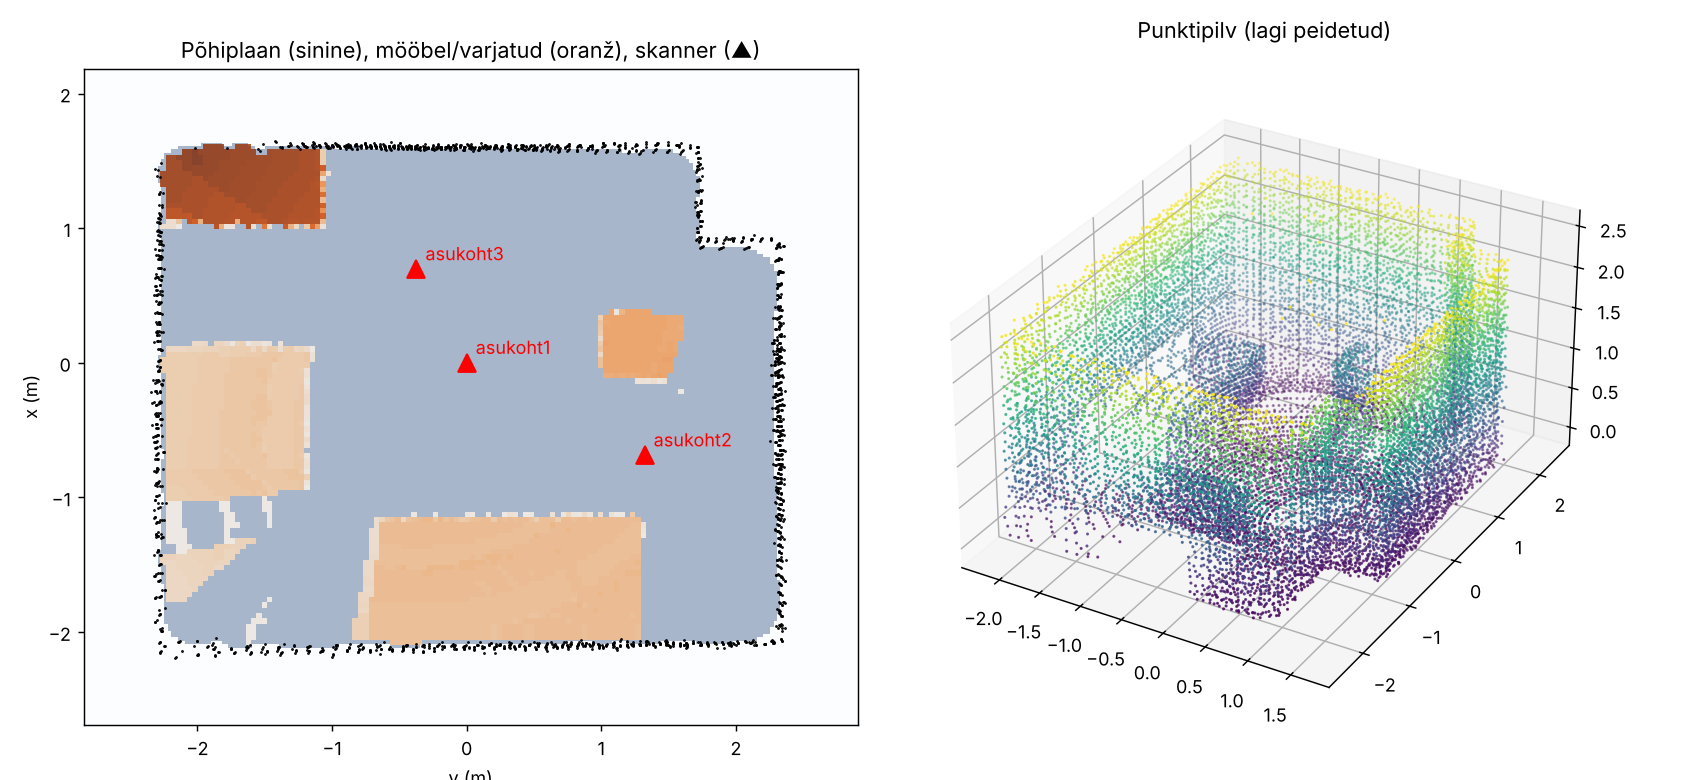
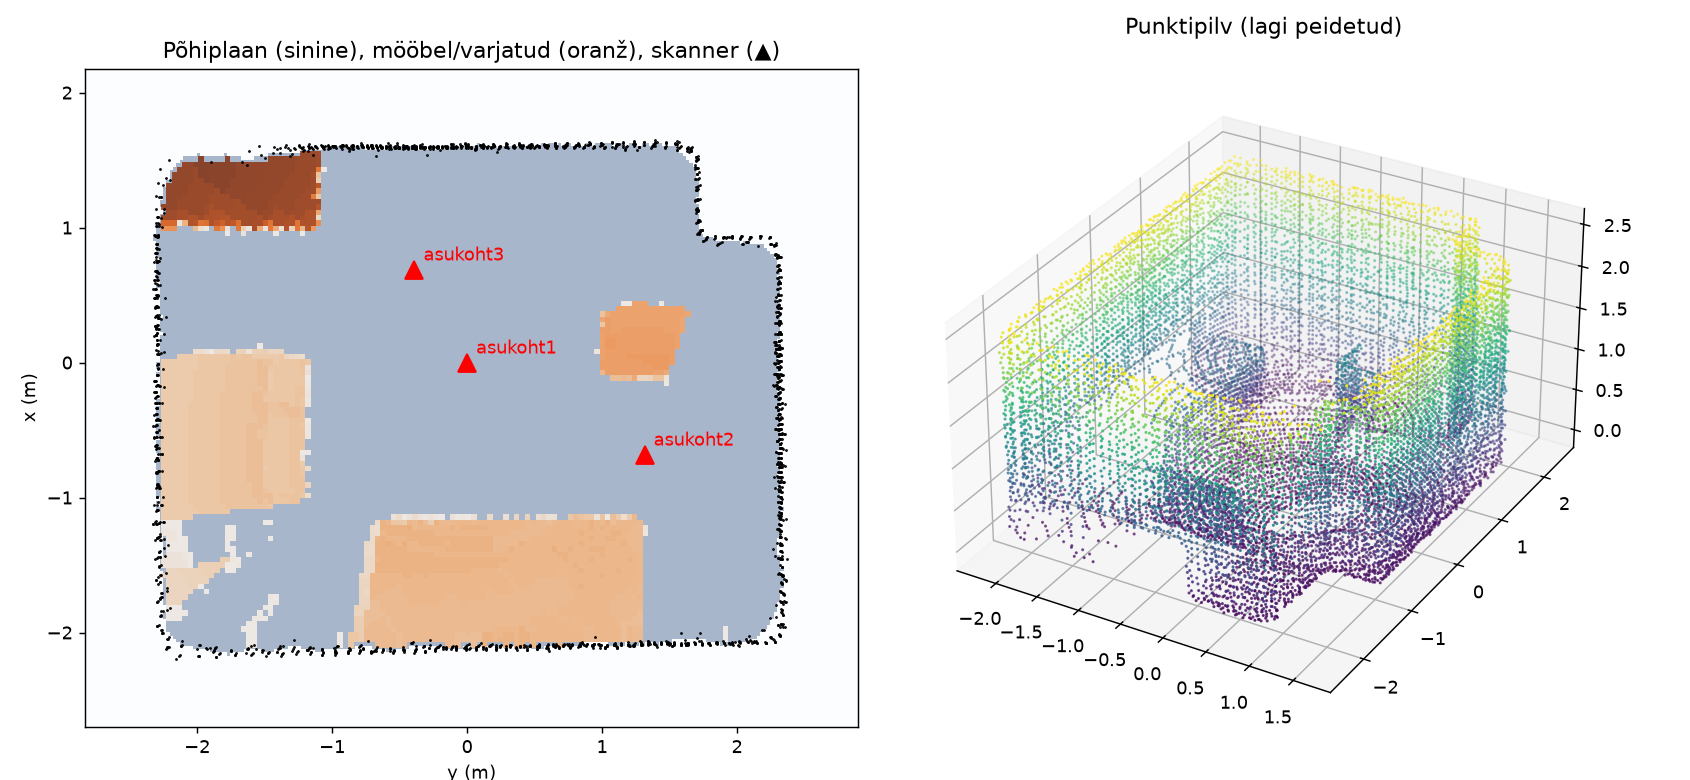
Make results robust to sensor noise, servo error and wide beam
The benchmark showed that noise above ~2 cm, a 3 % servo travel error
or the TF-Luna's 2° beam each threw the volume off by 4-15 %. Each fix
below was checked with benchmark.py (3 positions, 5 runs per scenario):

- Smooth ranges with a 3x3 median over neighbouring beams (only where
  the median is within 20 cm, so edges stay put), and let the floor
  plan reach the wall pixel centres.
  Noise 2 cm + 1 %: -15.4 % -> -2.5 %.
- kalibreeri is now automatic: it sweeps both servos across a flat wall
  and fits r = d / cos(s * (angle - c)) to get the level angle and each
  servo's scale (--pan-skaala, --tilt-skaala). The benchmark calibrates
  on a simulated wall first, like a real user would.
  Servo 3 % off: -14.1 % -> -1.4 %.
- Drop flying points (a beam half on an edge averages the near and far
  surface) by removing points whose surface is seen at > 75° from
  head-on.
  Beam 2°: -4.3 % -> -1.7 %, furniture 3.19 -> 4.06 m³ (true 4.03).

All errors combined: -36 % -> -4.0 %, with no registration warnings.
README, the firmware comment and the examp/ result are updated to match.

diff --git a/src/hardware/scanner.py b/src/hardware/scanner.py
@@ -5,6 +5,9 @@ import os
 import sys
 import time
 
+import numpy as np
+from scipy.optimize import least_squares
+
 
 # ======================================================================
 # 6. Hardware: scanning and calibration
@@ -65,20 +68,58 @@ def cmd_scan(args, cfg):
           args.kaust)
 
 
-def cmd_calibrate(args, cfg):
-    ser = open_port(args.port)
-    print("Kalibreerimine: sisesta tilt-nurk (nt 60). Suuna LiDAR seinale ja otsi nurk,")
-    print("mille juures kaugus on VÄIKSEIM: siis vaatab LiDAR seina suhtes risti (loodis).")
-    print("Tühi rida lõpetab.")
-    while True:
-        s = input("tilt> ").strip()
-        if not s:
-            break
-        ser.write(f"TILT {int(s)}\n".encode())
-        ser.readline()
+def fit_wall_sweep(angles, ranges_m):
+    """Sweep across a flat wall: fits r = d / cos(s·(angle − c)) and returns (c, s, d).
+    c = commanded angle pointing straight at the wall, s = real degrees per commanded degree."""
+    a, r = np.asarray(angles, float), np.asarray(ranges_m, float)
+
+    def resid(p):
+        return p[2] / np.cos(np.radians(p[1] * (a - p[0]))) - r
+
+    i = np.argmin(r)
+    c, s, d = least_squares(resid, [a[i], 1.0, r[i]], loss="soft_l1", f_scale=0.03).x
+    return c, abs(s), d
+
+
+def calibration(pan_angles, pan_ranges, tilt_angles, tilt_ranges, lidar_offset):
+    """Wall sweeps -> tilt_horizon, pan_scale, tilt_scale. Ranges in m, as the LiDAR reports them."""
+    _, pan_scale, _ = fit_wall_sweep(pan_angles, np.asarray(pan_ranges) + lidar_offset)
+    horizon, tilt_scale, _ = fit_wall_sweep(tilt_angles, np.asarray(tilt_ranges) + lidar_offset)
+    return dict(tilt_horizon=horizon, pan_scale=pan_scale, tilt_scale=tilt_scale)
+
+
+def _sweep(ser, axis, angles):
+    out = []
+    for a in angles:
+        ser.write(f"{axis} {a}\n".encode())
+        ser.readline()  # OK comes after the servo has settled
         ser.write(b"READ\n")
         line = ser.readline().decode(errors="replace").strip()
-        if line.startswith("R,"):
-            _, d, a = line.split(",")
-            print(f"  kaugus {d} cm, tugevus {a}")
+        if line.startswith("R,") and int(line.split(",")[1]) > 20:  # 0 = no valid reading
+            out.append((a, int(line.split(",")[1]) / 100))
+    return np.array(out).T
+
+
+def cmd_calibrate(args, cfg):
+    ser = open_port(args.port)
+    print("Kalibreerimine. Pane skanner loodis umbes 1 m kaugusele tasasest seinast (vähemalt 2,5 m lai,")
+    print("ees ei tohi olla mööblit) nii, et LiDAR vaatab seina poole. Kestab umbes poole minuti.")
+    input("Vajuta Enter...")
+    h = round(cfg["tilt_horizon"])
+    ser.write(f"TILT {h}\nPAN 45\n".encode())
+    ser.readline(), ser.readline()
+    pan = _sweep(ser, "PAN", range(45, 136))
+    ser.write(b"PAN 90\n")
+    ser.readline()
+    tilt = _sweep(ser, "TILT", range(max(h - 45, 0), min(h + 45, 180) + 1))
     ser.write(b"HOME\n")
+    if pan.size == 0 or tilt.size == 0 or min(pan.shape[1], tilt.shape[1]) < 40:
+        sys.exit("Liiga vähe mõõtmisi: kas LiDAR vaatab seina poole ja sein on lähemal kui 8 m?")
+    cal = calibration(*pan, *tilt, cfg["lidar_offset"])
+    print(f"Loodinurk {cal['tilt_horizon']:.1f}°, pan-skaala {cal['pan_scale']:.3f}, "
+          f"tilt-skaala {cal['tilt_scale']:.3f}")
+    if max(abs(cal["pan_scale"] - 1), abs(cal["tilt_scale"] - 1)) > 0.15:
+        print("HOIATUS: skaala erineb 1-st üle 15 %. Kas sein on tasane ja vaba? Korda mõõtmist.")
+    print("Kasuta neid arvutamisel, nt:\n  python ruumala.py "
+          f"--tilt-horizon {cal['tilt_horizon']:.1f} --pan-skaala {cal['pan_scale']:.3f} "
+          f"--tilt-skaala {cal['tilt_scale']:.3f} arvuta skaneeringud")

diff --git a/src/processing/geometry.py b/src/processing/geometry.py
@@ -2,6 +2,7 @@
 
 import math
 import os
+import warnings
 
 import numpy as np
 from scipy import ndimage
@@ -45,15 +46,54 @@ class Scan:
         return apply(self.T, self.origin_local[None])[0]
 
 
+def smooth_ranges(pan, tilt, r, max_jump=0.2):
+    """3×3 median over the scan grid (neighbouring beams usually hit the same surface).
+    Cuts range noise ~2×. A point only takes the median if it is within max_jump of it,
+    so object edges stay where they are. NaN = no measurement."""
+    _, i = np.unique(pan, return_inverse=True)
+    _, j = np.unique(tilt, return_inverse=True)
+    g = np.full((i.max() + 3, j.max() + 3), np.nan)
+    g[i + 1, j + 1] = r
+    with warnings.catch_warnings():  # windows with no valid measurement
+        warnings.simplefilter("ignore", RuntimeWarning)
+        med = np.nanmedian(np.lib.stride_tricks.sliding_window_view(g, (3, 3)), axis=(2, 3))[i, j]
+    return np.where(np.abs(med - r) < max_jump, med, r)
+
+
+def veil_points(pan, tilt, P, d, max_incidence=75.0):
+    """Flying points: a ~2° wide beam that half-hits an edge returns an average of the near and
+    the far surface, i.e. a point floating in between. Together they form a "veil" that runs along
+    the beams, so they look like a surface seen almost edge-on. Surface direction comes from the
+    nearer grid neighbour on each axis, so real edge points (one close neighbour) are kept.
+    ponytail: also drops floor/ceiling seen at < 15° (≈ 5 m away), other positions cover those."""
+    _, i = np.unique(pan, return_inverse=True)
+    _, j = np.unique(tilt, return_inverse=True)
+    G = np.full((i.max() + 3, j.max() + 3, 3), np.nan)
+    G[i + 1, j + 1] = P
+
+    def tangent(fwd, back):
+        f, b = fwd - P, P - back
+        nf = np.nan_to_num(np.linalg.norm(f, axis=1), nan=np.inf)
+        nb = np.nan_to_num(np.linalg.norm(b, axis=1), nan=np.inf)
+        return np.where((nf <= nb)[:, None], f, b)
+
+    n = np.cross(tangent(G[i + 2, j + 1], G[i, j + 1]), tangent(G[i + 1, j + 2], G[i + 1, j]))
+    with np.errstate(invalid="ignore", divide="ignore"):
+        cos_inc = np.abs(np.sum(n * d, axis=1)) / np.linalg.norm(n, axis=1)
+    return cos_inc < math.cos(math.radians(max_incidence))  # NaN (no neighbours) -> kept
+
+
 def raw_to_points(pan, tilt, dist_cm, amp, cfg):
     r = dist_cm / 100.0
     ok = (r >= cfg["min_range"]) & (r <= cfg["max_range"]) & (amp >= cfg["min_amp"])
-    th = np.radians(pan[ok])
-    ph = np.radians((tilt[ok] - cfg["tilt_horizon"]) * cfg["tilt_dir"])
-    rr = r[ok] + cfg["lidar_offset"]
+    r = smooth_ranges(pan, tilt, np.where(ok, r, np.nan)) + cfg["lidar_offset"]
+    th = np.radians(90 + (pan - 90) * cfg["pan_scale"])
+    ph = np.radians((tilt - cfg["tilt_horizon"]) * cfg["tilt_dir"] * cfg["tilt_scale"])
     d = np.stack([np.cos(ph) * np.cos(th), np.cos(ph) * np.sin(th), np.sin(ph)], axis=1)
     axis = np.array([0, 0, cfg["axis_height"]])
-    return axis + rr[:, None] * d, axis
+    P = axis + r[:, None] * d  # NaN where there is no measurement
+    ok &= ~veil_points(pan, tilt, P, d)
+    return P[ok], axis
 
 
 def load_scan_csv(path, cfg):

diff --git a/src/ruumala.py b/src/ruumala.py
@@ -48,6 +48,8 @@ from simulation.simulator import cmd_simulate
 DEFAULTS = dict(
     tilt_horizon=60.0,   # tilt servo angle at which the LiDAR is level
     tilt_dir=1.0,        # +1: larger tilt angle = beam points up, -1 the opposite
+    pan_scale=1.0,       # real degrees per commanded degree (servos are rarely exact); `kalibreeri` measures
+    tilt_scale=1.0,      # these two and tilt_horizon
     axis_height=0.06,    # height of the tilt axis above the pan axis (m)
     lidar_offset=0.02,   # distance from the tilt axis to the LiDAR front face (m)
     min_range=0.20,      # closest reliable TF-Luna distance (m)
@@ -67,6 +69,10 @@ def main():
                    help="tilt-servo nurk, mille juures LiDAR on loodis")
     p.add_argument("--tilt-dir", type=float, default=DEFAULTS["tilt_dir"],
                    help="+1 või -1, kui tilt pöörab vastupidi")
+    p.add_argument("--pan-skaala", type=float, default=DEFAULTS["pan_scale"],
+                   help="pan-servo tegelik pööre käsitud kraadi kohta (kalibreeri annab selle)")
+    p.add_argument("--tilt-skaala", type=float, default=DEFAULTS["tilt_scale"],
+                   help="tilt-servo tegelik pööre käsitud kraadi kohta (kalibreeri annab selle)")
     p.add_argument("--samm", type=int, default=2, help="skaneerimise samm kraadides")
     sub = p.add_subparsers(dest="cmd", required=True)
 
@@ -75,7 +81,7 @@ def main():
     s.add_argument("--nimi", required=True, help="nt asukoht1")
     s.add_argument("--kaust", default="skaneeringud")
 
-    c = sub.add_parser("kalibreeri", help="leia tilt-servo loodinurk")
+    c = sub.add_parser("kalibreeri", help="mõõda tasase seina abil loodinurk ja servode skaala")
     c.add_argument("--port", required=True)
 
     a = sub.add_parser("arvuta", help="ühenda skaneeringud ja arvuta ruumala")
@@ -91,6 +97,8 @@ def main():
     cfg = dict(DEFAULTS)
     cfg["tilt_horizon"] = args.tilt_horizon
     cfg["tilt_dir"] = args.tilt_dir
+    cfg["pan_scale"] = args.pan_skaala
+    cfg["tilt_scale"] = args.tilt_skaala
     cfg["pan_step"] = cfg["tilt_step"] = args.samm
 
     if args.cmd == "skanni":

diff --git a/src/simulation/simulator.py b/src/simulation/simulator.py
@@ -115,6 +115,29 @@ def simulate(folder, cfg, n_positions=3, seed=1, errors=None):
     return sim_truth(room)
 
 
+def simulate_wall_sweeps(cfg, seed=1, errors=None, dist=1.0):
+    """What `kalibreeri` would measure in front of a flat wall, with the same servo/LiDAR errors.
+    Returns (pan angles, ranges m, tilt angles, ranges m)."""
+    e = {**SIM_ERRORS, **(errors or {})}
+    rng = np.random.default_rng(seed + 1000)
+    az0 = rng.normal(0, 5)  # the user never points it at the wall exactly
+
+    def real(cmd):  # where the servo really points; sweeps go one way, so backlash is a fixed lag
+        a = 90 + (np.asarray(cmd, float) - 90) * (1 + e["scale"]) - e["backlash"] / 2
+        return a + rng.normal(0, e["jitter"], a.shape) if e["jitter"] else a
+
+    def measure(az, el):  # flat wall `dist` away from the axes, straight ahead at az = 0
+        t = dist / (np.cos(np.radians(az)) * np.cos(np.radians(el))) - cfg["lidar_offset"]
+        return t + rng.normal(0, e["noise"] + e["noise_rel"] * t)
+
+    h = round(cfg["tilt_horizon"])
+    level = (real(h) - cfg["tilt_horizon"]) * cfg["tilt_dir"]
+    pan = np.arange(45, 136)
+    tilt = np.arange(max(h - 45, 0), min(h + 45, 180) + 1)
+    return (pan, measure(real(pan) - 90 - az0, level),
+            tilt, measure(real(90) - 90 - az0, (real(tilt) - cfg["tilt_horizon"]) * cfg["tilt_dir"]))
+
+
 def cmd_simulate(args, cfg):
     tr = simulate(args.kaust, cfg, args.asukohti, args.seed)
     print(f"Simuleeritud tuba: pindala {tr['area']:.2f} m², ruumala {tr['room']:.2f} m³, "

diff --git a/src/benchmark.py b/src/benchmark.py
@@ -19,9 +19,10 @@ from multiprocessing import Pool
 
 import numpy as np
 
+from hardware.scanner import calibration
 from processing.analysis import analyze
 from ruumala import DEFAULTS
-from simulation.simulator import simulate
+from simulation.simulator import simulate, simulate_wall_sweeps
 
 ALL_ERRORS = dict(noise=0.02, noise_rel=0.01, backlash=1.0, jitter=0.5, scale=0.03, beam=2.0)
 SCENARIOS = {
@@ -37,9 +38,12 @@ SCENARIOS = {
 
 def run(job):
     name, errors, seed, n_pos = job
-    cfg = dict(DEFAULTS)
+    true_cfg = dict(DEFAULTS)  # how the simulated scanner is really built
+    # like a real user: calibrate first (with the same errors), then compute with those values
+    sweeps = simulate_wall_sweeps(true_cfg, seed, errors)
+    cfg = {**true_cfg, **calibration(*sweeps, true_cfg["lidar_offset"])}
     with tempfile.TemporaryDirectory() as d, contextlib.redirect_stdout(io.StringIO()) as out:
-        truth = simulate(d, cfg, n_pos, seed, errors)
+        truth = simulate(d, true_cfg, n_pos, seed, errors)
         try:
             res = analyze(d, cfg)
         except Exception as e:  # a crash is a result too

diff --git a/src/processing/analysis.py b/src/processing/analysis.py
@@ -42,7 +42,7 @@ def footprint(P, origins, ceil, res=0.025, band=(0.45, 0.08), close_m=0.25):
         leak = core[0].any() or core[-1].any() or core[:, 0].any() or core[:, -1].any()
         if not leak:
             break
-    inside = ndimage.distance_transform_edt(~core) <= r + 0.5
+    inside = ndimage.distance_transform_edt(~core) <= r + 1  # up to the wall pixel centres
     area = inside.sum() * res * res
     fp = inside
     return dict(area=area, mask=fp, inside=inside, org=org, res=res, leak=leak, wall_xy=xy, close=cm)

diff --git a/README.md b/README.md
@@ -52,9 +52,9 @@ A simulated 4.6 × 3.7 × 2.55 m room with four pieces of furniture, scanned fro
 
 | | Actual | Measured ([`simuleeritud_tulemus.txt`](examp/simuleeritud_tulemus.txt)) |
 |---|---|---|
-| Room volume | 42.33 m³ | 41.76 m³ |
-| Free air | 38.30 m³ | 37.49 m³ |
-| Furniture + hidden | 4.03 m³ | 4.27 m³ |
+| Room volume | 42.33 m³ | 41.93 m³ |
+| Free air | 38.30 m³ | 37.80 m³ |
+| Furniture + hidden | 4.03 m³ | 4.13 m³ |
 
 Technical details are under [How it works (technical)](#how-it-works-technical).
 
@@ -103,7 +103,7 @@ three-dim/
 ### Mechanics
 
 - The pan servo rotates horizontally 0–180°, the tilt servo vertically 0–180°.
-- Mount the LiDAR so that it points straight ahead (level) when the tilt servo is at **60°**. The beam then sweeps from 60° below the horizon, over the top, to 30° behind, which gives the two halves some overlap. If your mounting is different, find the right angle with the `kalibreeri` command and pass it as `--tilt-horizon`.
+- Mount the LiDAR so that it points straight ahead (level) when the tilt servo is at **60°**. The beam then sweeps from 60° below the horizon, over the top, to 30° behind, which gives the two halves some overlap. It doesn't have to be exact: `kalibreeri` measures the real level angle (see Usage).
 - If a larger tilt angle moves the beam down instead of up, use `--tilt-dir -1`.
 
 ## Installation
@@ -121,7 +121,7 @@ python ruumala.py simuleeri
 python ruumala.py arvuta sim_skaneeringud
 python benchmark.py          # accuracy over many simulated scans, with servo/LiDAR errors (~5 min)
 
-# 1) calibrate (once)
+# 1) calibrate (once): scanner level, ~1 m in front of a flat empty wall, LiDAR facing it
 python ruumala.py kalibreeri --port COM3
 
 # 2) scan at each position (halves A and B; rotate the base 180° by hand in between)
@@ -129,9 +129,11 @@ python ruumala.py skanni --port COM3 --nimi asukoht1
 python ruumala.py skanni --port COM3 --nimi asukoht2
 python ruumala.py skanni --port COM3 --nimi asukoht3
 
-# 3) compute
-python ruumala.py arvuta skaneeringud
+# 3) compute, with the three values that kalibreeri printed
+python ruumala.py --tilt-horizon 61.2 --pan-skaala 1.021 --tilt-skaala 0.987 arvuta skaneeringud
 ```
+
+Calibration sweeps both servos across the wall. A flat wall's distance follows `r = d / cos(angle)`, so fitting that curve gives the exact level angle and how many real degrees each servo turns per commanded degree. Cheap servos are often a few % off, and in the simulator an uncalibrated 3 % error alone made the result 9 % too small.
 
 Results are written to the `skaneeringud/` folder:
 - `tulemus.txt`: volumes and the registration log
@@ -151,21 +153,27 @@ On Linux the port is usually `/dev/ttyUSB0`. Scanning one half at 2° steps take
 
 ## How it works (technical)
 
-1. **Points**: `x = r·cos φ·cos θ`, `y = r·cos φ·sin θ`, `z = r·sin φ` (θ = pan, φ = tilt − level angle).
+0. **Calibration**: least-squares fit of `r = d / cos(s·(angle − c))` to a pan sweep and a tilt sweep across a flat wall gives the level angle `c` and each servo's scale `s`.
+1. **Points**: `x = r·cos φ·cos θ`, `y = r·cos φ·sin θ`, `z = r·sin φ` (θ = pan × pan scale, φ = (tilt − level angle) × tilt scale). Before that, range noise is cut about 2× with a 3×3 median over neighbouring beams (only where the median is within 20 cm, so edges stay sharp), and **flying points** are dropped: where the ~2° beam half-hits an edge, the sensor averages the near and far surface and the point floats in between. Such points form a "veil" along the beams, so points whose surface is seen at more than 75° from head-on are removed.
 2. **Levelling**: in each scan the ceiling plane is found with RANSAC and rotated to be exactly horizontal.
 3. **Registration**: positions are added greedily. The initial guess comes from FFT correlation of a top-view wall image (all rotations in 2° steps), refined with 4-DOF point-to-plane ICP. Poses are scored by wall overlap and **contradictions**: a wall must not be in a place that some scanner saw as empty. The exact angle between halves A and B is also computed.
-4. **Floor and ceiling**: the lowest and highest large horizontal surface.
+4. **Floor and ceiling**: the lowest and highest large horizontal surface (the top of each histogram peak, so noise doesn't push them apart).
 5. **Floor plan**: wall points near the ceiling (above the furniture). Holes are closed, the interior is flood-filled starting from the scanner positions, and the area is summed up. This way the walls automatically extend behind cabinets.
 6. **Room volume** = area × height.
 7. **Free air**: the room is divided into 4 cm cubes. A cube is free if some scanner saw past it. The rest is furniture or hidden area.
 
 ## Test results (simulator)
 
-Simulated room: 4.6 × 3.7 × 2.55 m, with a column in one corner, a wardrobe, a sofa, a chest of drawers and a shelf. The data has ±1.5 cm measurement noise, the scanner is tilted by up to 1°, and the base is rotated by hand with up to ±12° error.
+Simulated room: 4.6 × 3.7 × 2.55 m (42.33 m³), with a column in one corner, a wardrobe, a sofa, a chest of drawers and a shelf (4.03 m³ of furniture). Every run the scanner is tilted by up to ~1°, the base is turned by hand with up to ±12° error, and the user calibrates first on a simulated wall. `python benchmark.py` adds real-world errors one at a time (3 positions, 5 runs each):
 
-| | Actual | Measured (10 runs) |
+| Scenario | Room volume error (mean / worst) | Furniture |
 |---|---|---|
-| Room volume | 42.33 m³ | 41.7–42.3 m³ |
-| Furniture | 4.03 m³ | 4.1–4.4 m³ (3–4 positions), ~5 m³ (2), ~7 m³ (1) |
+| ideal (1.5 cm noise) | −1.2 % / −2.0 % | 4.15 m³ |
+| noise 2 cm + 1 % of distance | −2.5 % / −3.8 % | 4.08 m³ |
+| servo backlash 1° | −0.8 % / −2.0 % | 4.18 m³ |
+| servo jitter 0.5° | −1.3 % / −2.7 % | 4.29 m³ |
+| servo turns 3 % too far | −1.4 % / −2.4 % | 4.12 m³ |
+| beam 2° wide (TF-Luna) | −1.7 % / −2.7 % | 4.06 m³ |
+| all of the above | −4.0 % / −5.2 % | 3.84 m³ |
 
-The furniture volume always comes out slightly larger than the actual value, because it also includes areas that no scanner saw. With real hardware, servo inaccuracy (±1°) and errors from reflective surfaces are added on top, so expect an accuracy of about 2–5%.
+The room volume comes out slightly small because the floor area does (the height is accurate to ~1 cm). The furniture volume usually comes out slightly large, because it also includes areas that no scanner saw. The noise levels above are estimates from the TF-Luna datasheet; measure your own (e.g. repeated `READ` at a wall) to see which row applies. Mirrors, windows and dark surfaces are not simulated.
